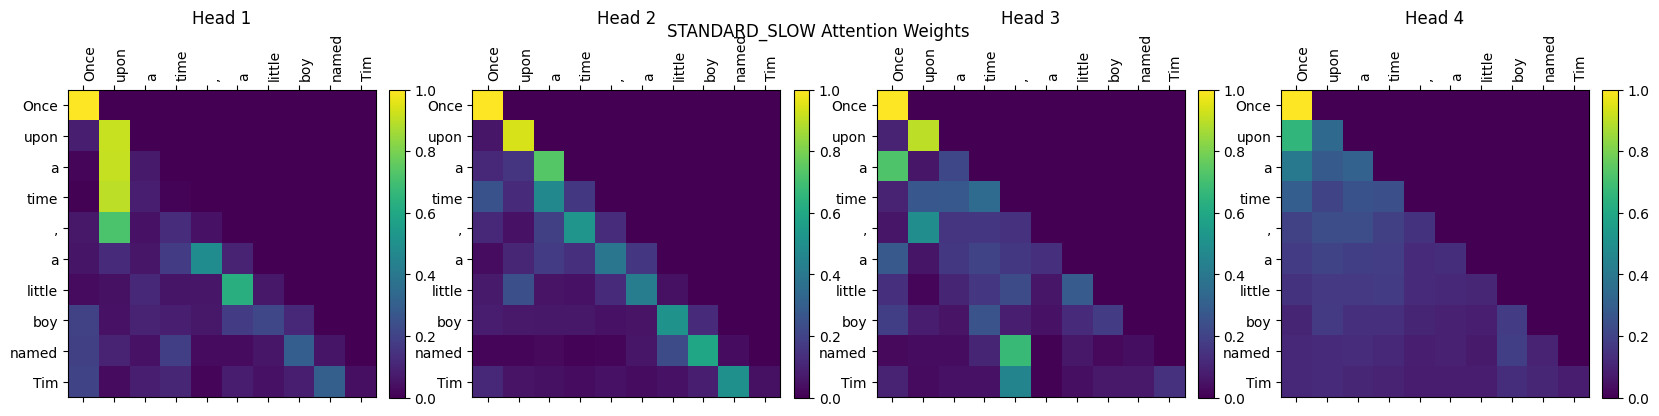
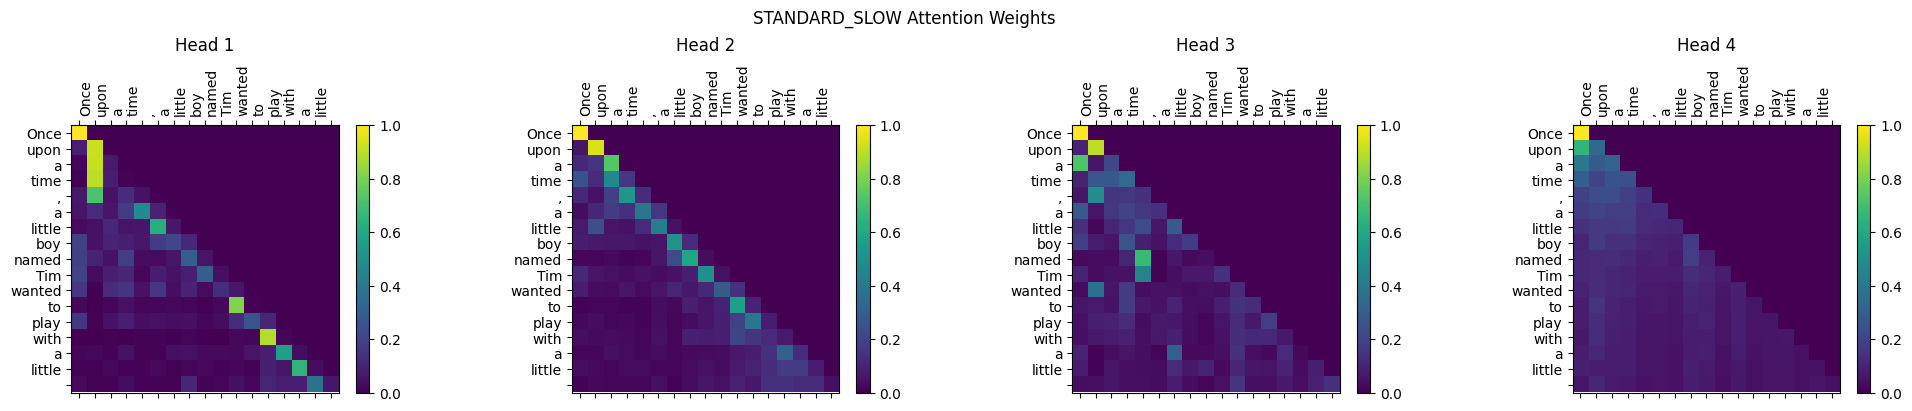
fix requirements and visualizations

diff --git a/train_rbf_transformer.py b/train_rbf_transformer.py
@@ -31,6 +31,8 @@ class TrainingConfig:
     validation_ratio: float = 0.001
 
     # Training params
+    train_rbf = False
+    train_standard = False
     epochs: int = 1
     log_steps: int = 100
     eval_steps: int = 500  # Evaluate every N steps
@@ -40,11 +42,14 @@ class TrainingConfig:
     standard_training_attention: str = "standard"
     rbf_training_attention: str = "rbf"
 
+    # use slow variants for evaluation to be able to output attention maps
     standard_eval_attention: str = "standard_slow"
     rbf_eval_attention: str = "rbf_slow"
 
     # Generation params
-    prompt: str = "Once upon a time, a little boy named Tim"
+    prompt: str = (
+        "Once upon a time, a little boy named Tim wanted to play with a little "
+    )
     max_gen_length: int = 512
 
     # Infrastructure
@@ -374,9 +379,7 @@ def generate_story(model, tokenizer, prompt, config: TrainingConfig):
     return tokenizer.decode(input_ids[0], skip_special_tokens=True)
 
 
-def visualize_attention_hf(
-    model, tokenizer, prompt, config: TrainingConfig, save_path=None
-):
+def visualize_attention_hf(model, tokenizer, prompt, config, save_path=None):
     model.eval()
     input_ids = tokenizer.encode(prompt, return_tensors="pt").to(config.device)
     tokens = [t.replace("Ġ", "") for t in tokenizer.convert_ids_to_tokens(input_ids[0])]
@@ -396,7 +399,11 @@ def visualize_attention_hf(
     attn_weights_to_plot = attn_weights[0][0].cpu()
     num_heads = attn_weights_to_plot.shape[0]
 
-    fig, axes = plt.subplots(1, num_heads, figsize=(5 * num_heads, 4))
+    # FIX 1: Add layout="constrained" to handle dynamic sizing for tall labels
+    fig, axes = plt.subplots(
+        1, num_heads, figsize=(5 * num_heads, 4), layout="constrained"
+    )
+
     if num_heads == 1:
         axes = [axes]
 
@@ -406,10 +413,15 @@ def visualize_attention_hf(
         axes[h].set_yticks(range(len(tokens)))
         axes[h].set_xticklabels(tokens, rotation=90, ha="left")
         axes[h].set_yticklabels(tokens)
-        axes[h].set_title(f"Head {h + 1}")
+
+        # FIX 2: Add a pad so the subplot titles don't overlap with the vertical x-ticks
+        axes[h].set_title(f"Head {h + 1}", pad=10)
+
         fig.colorbar(cax, ax=axes[h], fraction=0.046, pad=0.04)
 
-    plt.suptitle(f"{attention_type.upper()} Attention Weights", y=1.05)
+    # FIX 3: Remove the hardcoded y=1.05 and let the layout engine place it properly
+    plt.suptitle(f"{attention_type.upper()} Attention Weights")
+
     if save_path:
         os.makedirs(os.path.dirname(save_path), exist_ok=True)
         plt.savefig(save_path, bbox_inches="tight")
@@ -426,32 +438,34 @@ os.makedirs("outputs", exist_ok=True)
 train_loader, val_loader, tokenizer = prepare_tiny_stories(config)
 vocab_size = len(tokenizer)
 
-# 1. Train with Fast Variants
-rbf_model_fast, rbf_train_loss, rbf_val_loss, rbf_train_steps, rbf_val_steps = (
-    train_variant(
-        config.rbf_training_attention,
-        train_loader,
-        val_loader,
-        vocab_size,
-        tokenizer.pad_token_id,
-        config=config,
-        save_path="outputs/rbf_weights.pt",
+# Training
+if config.train_rbf:
+    rbf_model_fast, rbf_train_loss, rbf_val_loss, rbf_train_steps, rbf_val_steps = (
+        train_variant(
+            config.rbf_training_attention,
+            train_loader,
+            val_loader,
+            vocab_size,
+            tokenizer.pad_token_id,
+            config=config,
+            save_path="outputs/rbf_weights.pt",
+        )
     )
-)
 
-std_model_fast, std_train_loss, std_val_loss, std_train_steps, std_val_steps = (
-    train_variant(
-        config.standard_training_attention,
-        train_loader,
-        val_loader,
-        vocab_size,
-        tokenizer.pad_token_id,
-        config=config,
-        save_path="outputs/standard_weights.pt",
+if config.train_standard:
+    std_model_fast, std_train_loss, std_val_loss, std_train_steps, std_val_steps = (
+        train_variant(
+            config.standard_training_attention,
+            train_loader,
+            val_loader,
+            vocab_size,
+            tokenizer.pad_token_id,
+            config=config,
+            save_path="outputs/standard_weights.pt",
+        )
     )
-)
 
-# 2. Instantiate Slow Models for Evaluation
+# Evaluation
 print("Loading saved weights into SLOW models for evaluation and visualization...")
 
 std_model_slow = CausalLM(
@@ -505,35 +519,40 @@ visualize_attention_hf(
 )
 
 # 5. Plot Loss
-plt.figure(figsize=(10, 6))
-plt.plot(
-    std_train_steps,
-    std_train_loss,
-    label="Standard Train Loss",
-    color="blue",
-    linestyle="-",
-)
-plt.plot(
-    std_val_steps, std_val_loss, label="Standard Val Loss", color="blue", linestyle="--"
-)
-plt.plot(
-    rbf_train_steps,
-    rbf_train_loss,
-    label="New&Fun Train Loss",
-    color="orange",
-    linestyle="-",
-)
-plt.plot(
-    rbf_val_steps,
-    rbf_val_loss,
-    label="New&Fun Val Loss",
-    color="orange",
-    linestyle="--",
-)
-plt.xlabel("Steps")
-plt.ylabel("Loss")
-plt.title("Training and Validation Loss Comparison")
-plt.legend()
-plt.grid(True)
-plt.savefig("outputs/loss_plot.png", bbox_inches="tight")
-plt.close()
+if config.train_rbf and config.train_standard:
+    plt.figure(figsize=(10, 6))
+    plt.plot(
+        std_train_steps,
+        std_train_loss,
+        label="Standard Train Loss",
+        color="blue",
+        linestyle="-",
+    )
+    plt.plot(
+        std_val_steps,
+        std_val_loss,
+        label="Standard Val Loss",
+        color="blue",
+        linestyle="--",
+    )
+    plt.plot(
+        rbf_train_steps,
+        rbf_train_loss,
+        label="New&Fun Train Loss",
+        color="orange",
+        linestyle="-",
+    )
+    plt.plot(
+        rbf_val_steps,
+        rbf_val_loss,
+        label="New&Fun Val Loss",
+        color="orange",
+        linestyle="--",
+    )
+    plt.xlabel("Steps")
+    plt.ylabel("Loss")
+    plt.title("Training and Validation Loss Comparison")
+    plt.legend()
+    plt.grid(True)
+    plt.savefig("outputs/loss_plot.png", bbox_inches="tight")
+    plt.close()

diff --git a/profile_attention.py b/profile_attention.py
@@ -15,7 +15,6 @@ from rbf_attention import (
 BATCH_SIZE = 4
 NUM_HEADS = 8
 HEAD_DIM = 64
-# Sweeping from 1K to 8K context lengths
 SEQ_LENS = [1024, 2048, 4096, 8192]
 DEVICE = "cuda"
 
@@ -77,7 +76,7 @@ def run_benchmarks():
 
     results = {
         "SDPA Baseline": {"fwd": [], "bwd": [], "mem": []},
-        "RBF Math": {"fwd": [], "bwd": [], "mem": []},
+        "Naiive RBF Math": {"fwd": [], "bwd": [], "mem": []},
         "RBF Triton": {"fwd": [], "bwd": [], "mem": []},
         # "Non-Softmax Math": {"fwd": [], "bwd": [], "mem": []},
         # "Non-Softmax Triton": {"fwd": [], "bwd": [], "mem": []},
@@ -119,7 +118,7 @@ def run_benchmarks():
                 "SDPA Baseline",
                 lambda: F.scaled_dot_product_attention(q, k, v, is_causal=True),
             ),
-            ("RBF Math", lambda: rbf_math_forward(q, k, v)),
+            ("Naiive RBF Math", lambda: rbf_math_forward(q, k, v)),
             ("RBF Triton", lambda: TritonScaledRBFAttention.apply(q, k, v, True)),
             # ("Non-Softmax Math", lambda: rbf_non_softmax_math_forward(q, k, v)),
             # (
@@ -142,10 +141,10 @@ def run_benchmarks():
                 # Measure Backward Time
                 out = fn()
                 bwd_ms = triton.testing.do_bench(
-                    lambda: out.backward(dout, retain_graph=True), quantiles=None
+                    lambda: out.backward(dout, retain_graph=True),  # noqa: F821
+                    quantiles=None,
                 )
 
-                # --- FIX: CLEAR THE AUTOGRAD GRAPH MEMORY LEAK ---
                 del out
                 torch.cuda.empty_cache()
 

diff --git a/README.md b/README.md
@@ -43,11 +43,16 @@ I trained a small causal language model from scratch on TinyStories to compare s
 In this limited setting, the RBF attention model converged a bit faster and reached a slightly lower validation loss.  
 ![Loss Plot](outputs/loss_plot.png)
 
-**2. Kernel Profiling**  
-Thanks to the Triton implementation, the memory footprint stays low, and the forward/backward pass speeds are highly competitive with PyTorch's native SDPA.  
+**2. Attention Maps:**
+You can see how the regularized attention distribution differ between standard attention and rbf attention.  
+![Standard Attention Maps](outputs/standard_attention.png)
+![RBF Attention Maps](outputs/rbf_attention.png)
+
+
+**3. Kernel Profiling**  
+Thanks to the Triton implementation, the memory footprint stays low, and the forward/backward pass speeds are highly competitive with PyTorch's native and super-optimized SDPA.  
 ![Profiling Results](outputs/attention_profiling_results.png)
 
-*(You can also see visualizations of the raw attention maps in `outputs/rbf_attention.png` and `outputs/standard_attention.png` to see how the regularized attention distribution differs visually.)*
 
 ## 📂 Repository Structure
 
